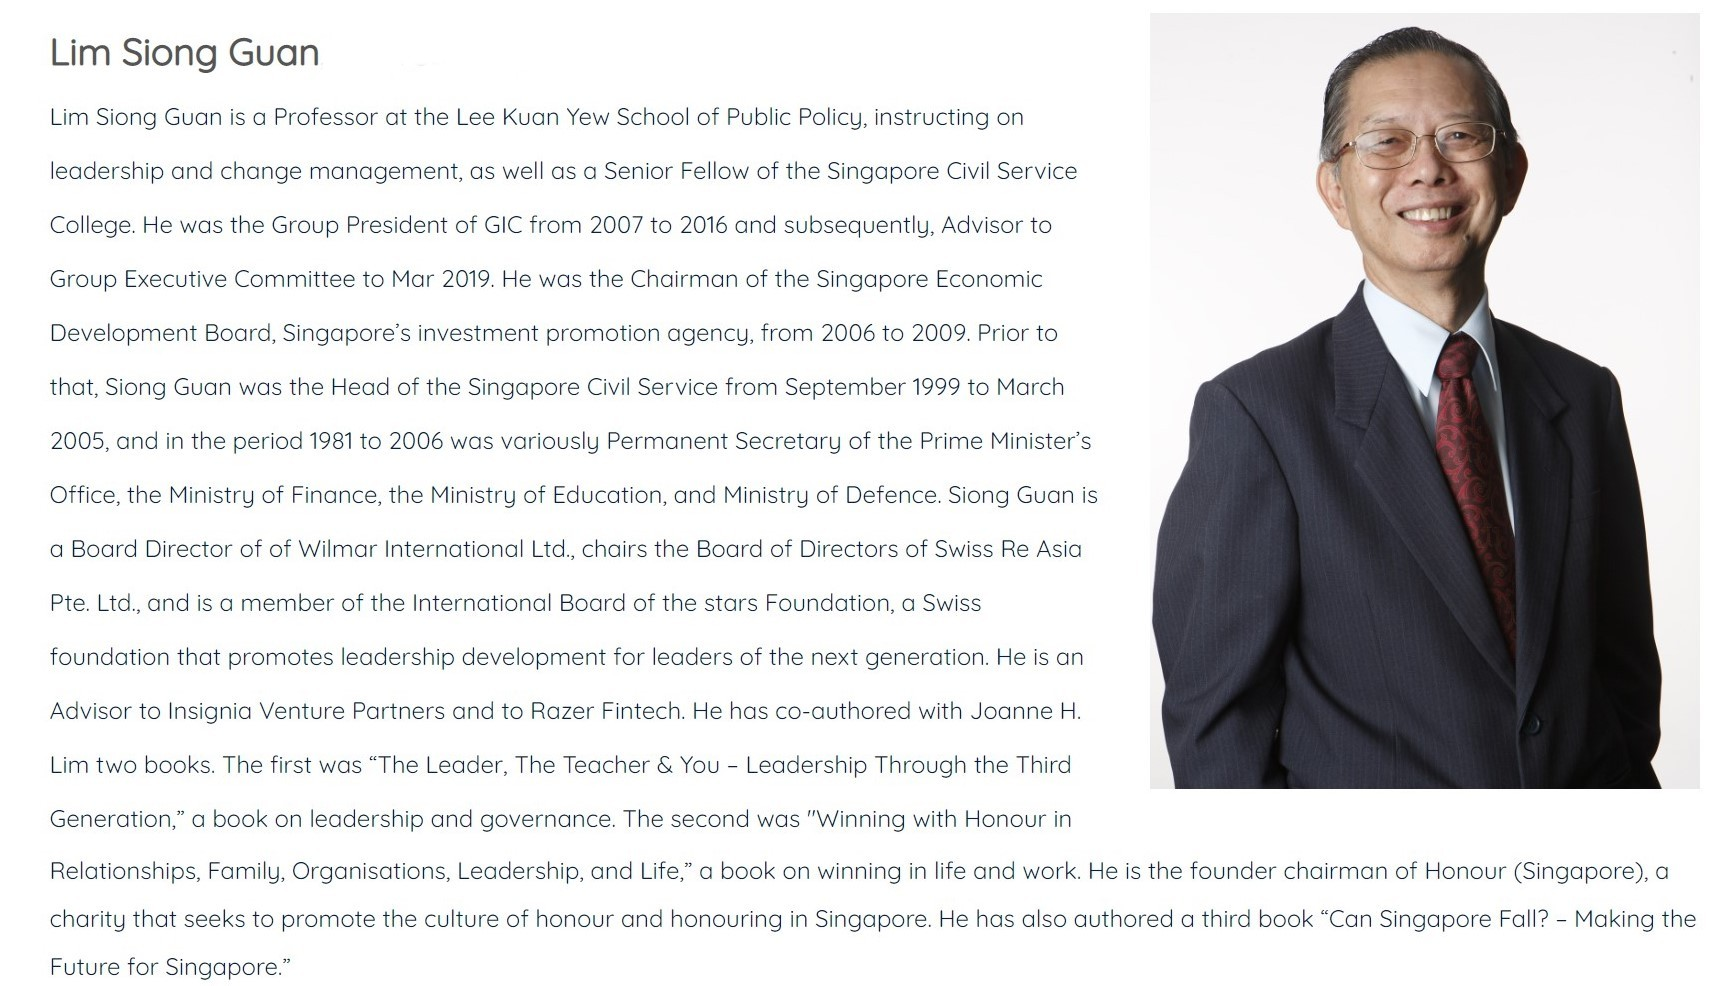
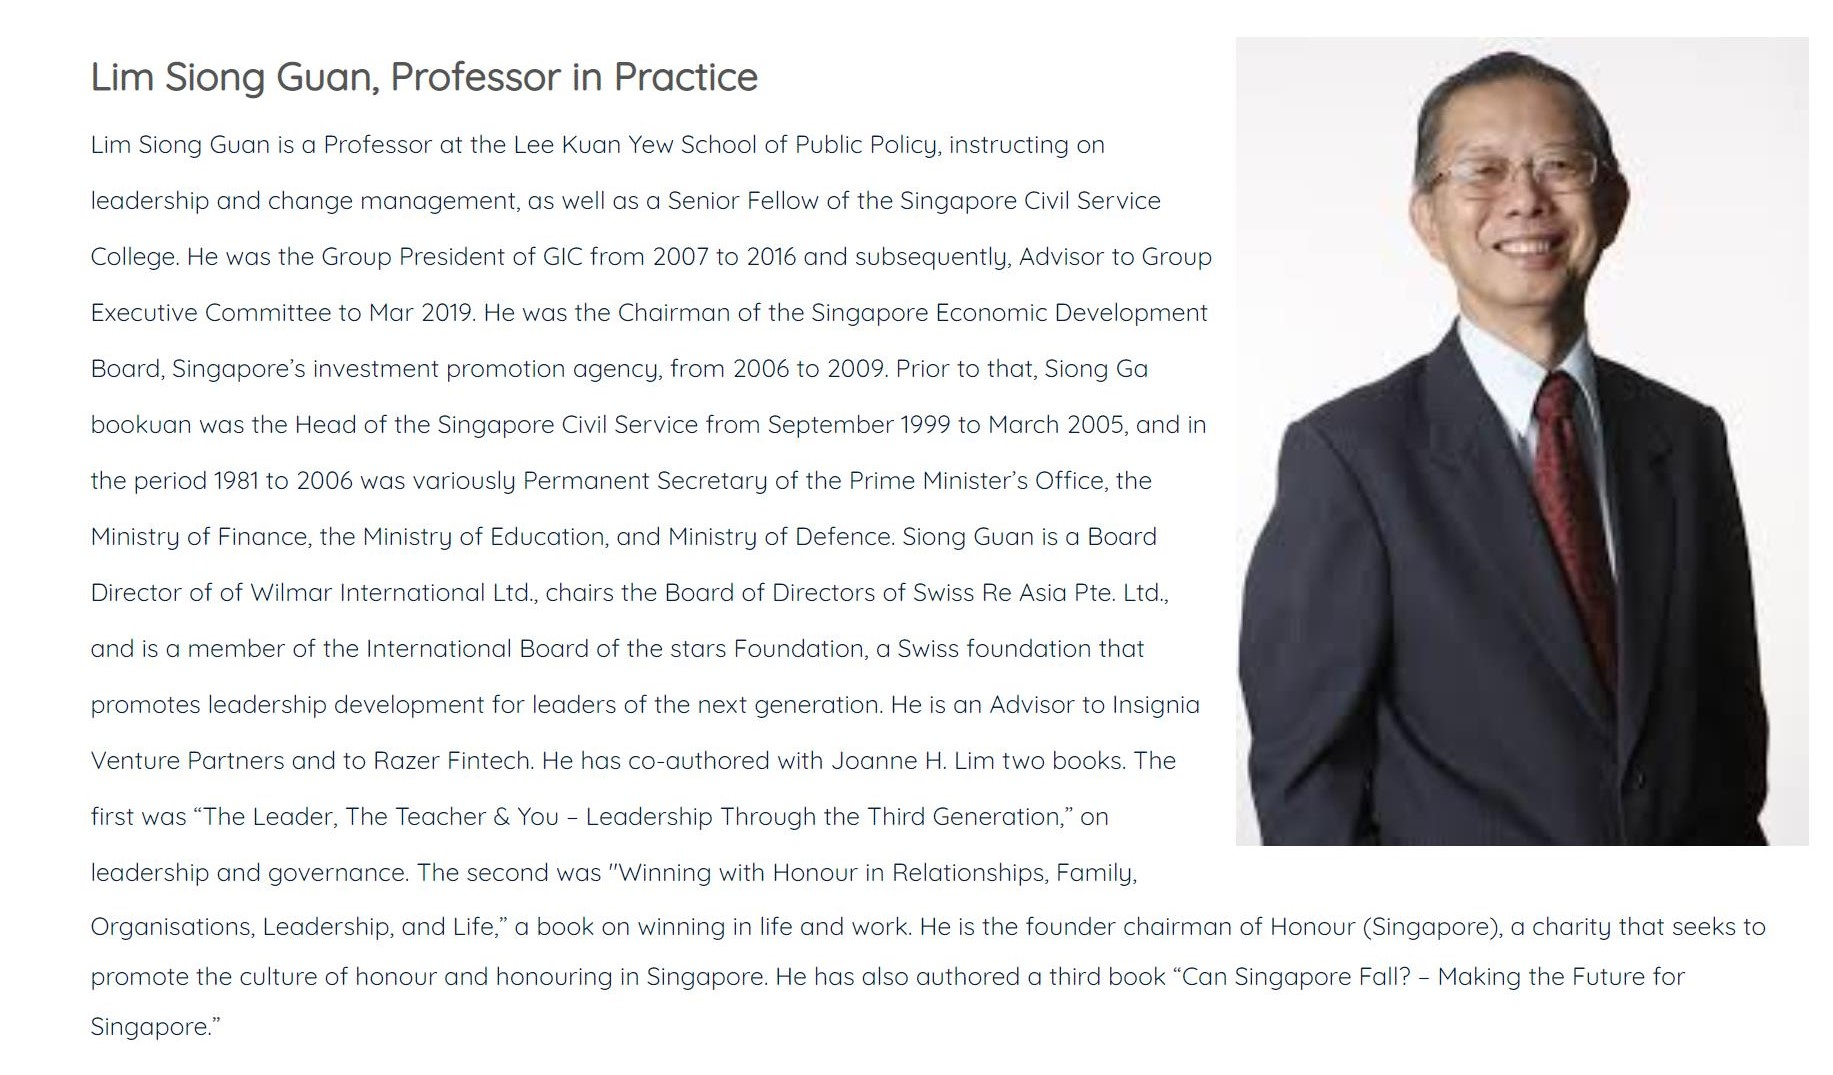
final final final edits

diff --git a/keynote-speakers.html b/keynote-speakers.html
@@ -17,8 +17,9 @@
 	<meta name="theme-color" content="#ffffff">
 	<meta property="og:image" content="/icons/512x512.png">
 	<meta name="viewport" content="width=device-width, initial-scale=1, user-scalable=no" />
-	<link rel="stylesheet" href="assets/css/main.css" />
+	<link rel="stylesheet" href="assets/css/main.css">
 	<link rel="stylesheet" href="https://www.w3schools.com/w3css/4/w3.css">
+
 </head>
 
 <body class="is-preload">
@@ -33,7 +34,7 @@
 				</li>
 			</ul>
 		</nav>
-	</header>
+	</header> 
 
 	<!-- Menu -->
 	<nav id="menu">
@@ -77,57 +78,18 @@
 			<header class="major">
 				<h1>Keynote Speakers</h1>
 			</header>
-<!--			<img src="images/bradley-busetto.jpg" style="width:25em; float: right;" alt="">
-			<p style="text-indent: 0; margin-right: 22em;"> 
-				<b>Our Guest of Honour, Mr Bradley Busetto, UNDP Global Centre  </b> <br>
-				Bradley leads the newly-established UNDP Global Centre for Technology, 
-				Innovation and Sustainable Development in Singapore. 
-				Bradley is regarded as a pioneer in creating and scaling innovative financing and business models for sustainable development. Bradley set up the UN’s first social venture incubator and impact investment fund, as well the world’s first national SDG Innovation Lab, during his tenure as UN RC/UNDP RR in Armenia (2013 - 2018). 
-				This work was recognized by the Future of Innovation Summit (co-hosted by Stanford University/Rockefeller Foundation). On the behalf of the international community in Armenia, Bradley also led a sensitive electoral assistance program that helped pave the way for the first free, and fair elections in the country’s history. He was awarded the Medal of Honour from the Minister of Foreign Affairs of Armenia. 
-				Directly prior to his appointment in Singapore, he helped lead the design of UNDP’s pioneering flagship innovation lab network, and also helped craft the SDG Fund for the United Nations. Previously with
-			</p>
-			<p style="margin-top:-35px">
-				the UN, Bradley served in humanitarian missions in Indonesia, Iraq, Bosnia-Herzegovina and Kosovo. 
-				In addition to his United Nations service, Bradley led the expansion of international operations for the Wellcome Trust, the leading global health foundation. He also worked in leadership roles in banking and management consulting and co-founded a start-up. The California native holds a BA and a master’s degree in philosophy from Stanford University, where he graduated with honours. 
-				
-			</p>
-			<img src="images/Mario 2.jpg" style="width: 25em; float: left;" alt="" >
-			<p style="text-indent: 0; margin-left: 22em;"> 
-				<b>Dr Mario Piacentini, OECD </b> <br>Dr Piacentini is the Senior Analyst leading the work on the PISA assessments of transversal, 21st-century skills. He is the lead author of the frameworks for the PISA 2018 assessment of Global Competence and for the PISA 2021 assessment of Creative Thinking. He also authored several PISA analytical reports, including the first report on the well-being of students. Dr Piacentini joined the OECD in 2009 as a Young Professional. Before moving to the PISA team in April 2015, he worked for the Public Governance Directorate and the Statistics Directorate of the OECD, the University of Geneva and the World Bank. Dr Piacentini has contributed to several large OECD and inter-agency projects on gender and well-being, and led the definition and development of international indicators on metropolitan areas, inequality, entrepreneurship and trade. He holds a PhD in economics from the University of Geneva.
-			</p>
-			<br>
-			<img src="images/yeo-kiat-seng.jpg" style="width:25em; float: right;" alt="">
-			<p style="text-indent: 0; margin-right: 22em;"> 
-				<b>Prof Yeo Kiat Seng, SUTD </b> <br>
-				Professor YEO Kiat Seng (M’00–SM’09–F’16) received the B.Eng. (EE) in 1993, and Ph.D. (EE) in 1996 both from Nanyang Technological University (NTU). Currently, he is Associate Provost for Research and International Relations at Singapore University of Technology and Design (SUTD). Professor Yeo is a widely known authority in low-power RF/mm-wave IC design and a recognized expert in CMOS technology. He was a Member of Board of Advisors of the Singapore Semiconductor Industry Association. Before his appointment at SUTD, he was Associate Chair (Research), Head of Division of Circuits and Systems and Founding Director of VIRTUS of the School of Electrical and Electronic Engineering at NTU. He has published 9 books, 7 book chapters, over 600 international top-tier refereed journal and conference papers and holds 38 patents. Professor Yeo holds/held key positions in many international conferences as Advisor, General Chair, Co-General Chair and Technical Chair. He was awarded the Public Administration Medal (Bronze) on National Day 2009 by the President of the Republic of Singapore and the Nanyang Alumni Achievement Award in 2009 for his outstanding contributions to the university and society. Professor Yeo is an IEEE Fellow for his contributions to low-power integrated circuit design.
-			</p>
-			<img src="images/sanitarn.jpeg" style="width: 25em; float: left;" alt="" >
-			<p style="text-indent: 0; margin-left: 22em;"> 
-				<b>Dr Santitarn Sathirathai, SEA Group </b> <br>
-				Dr. Santitarn Sathirathai is Group Chief Economist and a member of senior management at Sea, the leading internet company in Southeast Asia and Taiwan. Sea’s businesses include Shopee, the region’s largest and most popular e-commerce platform, Garena, a global leader in games publishing and development, and SeaMoney, one of the pioneers of Southeast Asia’s digital financial services sector. 
- 
-				At Sea, he heads the company’s Research and Public Policy Unit and leads Sea’s engagement with policymakers and thought leaders around the region, with a particular focus on promoting digital skills and literacy for young people, SMEs, and other industry stakeholders. 
-				
-				Santitarn was the first representative from Southeast Asia invited to join the World Economic Forum’s Community of Chief Economists tasked to reimagine the Global Economic system post Covid-19.
-				 
-				A passionate advocate for the power of technology to drive transformation and inclusion, he published his first book, Futuration, in Thailand in 2019. The book addresses Santitarn’s views on how Thailand can prepare for the challenges and opportunities of the future economy, and has become an instant best-seller and one of the 
-			</p>
-			<p style="margin-top: -35px"> country’s most talked-about books of the year. 
-				 
-				Prior to joining Sea, Santitarn was the Head of Emerging Asia Economics Research at Credit Suisse where he advised public and private investors, covering 10 economies. He was the only economist in Asia to have won the prestigious best economic forecaster award by Consensus Economics for three consecutive years. He has also worked at Thailand's Ministry of Finance and at the Office of the Deputy Prime Minister, as well as the Government of Singapore Investment Corporation. 
-				 
-				In addition to his work with Sea, he is also a visiting lecturer at Chulalongkorn University and is one of the founding members of the Thai Young Philanthropist Network (TYPN), which mobilises over 1800 passionate youths to work on inclusive and sustainable development projects in Thailand. 
-				 
-				Santitarn holds a doctorate degree in Public Policy and a master’s degree in Public Administration in International Development from Harvard University, as well as a bachelor’s degree in Economics and a master’s degree from the London School of Economics.</p>
-			<img src="images/lim-siong-guan.jpg" style="width:25em; float: right;" alt="">
-			<p style="text-indent: 0; margin-right: 22em;"> 
-				<b>Lim Siong Guan, Professor in Practice, Lee Kuan Yew School of Public Policy  </b> <br>
-				Lim Siong Guan is a Professor at the Lee Kuan Yew School of Public Policy, instructing on leadership and change management, as well as a Senior Fellow of the Singapore Civil Service College.   He was the Group President of GIC from 2007 to 2016 and subsequently, Advisor to Group Executive Committee to Mar 2019.  He was the Chairman of the Singapore Economic Development Board, Singapore’s investment promotion agency, from 2006 to 2009.  Prior to that, Siong Guan was the Head of the Singapore Civil Service from September 1999 to March 2005, and in the period 1981 to 2006 was variously Permanent Secretary of the Prime Minister’s Office, the Ministry of Finance, the Ministry of Education, and Ministry of Defence. 
-Siong Guan is a Board Director of of Wilmar International Ltd., chairs the Board of Directors of Swiss Re Asia 
-			</p>
-			<p style="margin-top: -35px">Pte. Ltd., and is a member of the International Board of the stars Foundation, a Swiss foundation that promotes leadership development for leaders of the next generation.  He is an Advisor to Insignia Venture Partners and to Razer Fintech.
-				He has co-authored with Joanne H. Lim two books.  The first was “The Leader, The Teacher & You – Leadership Through the Third Generation,” a book on leadership and governance.  The second was "Winning with Honour in Relationships, Family, Organisations, Leadership, and Life,” a book on winning in life and work.  He is the founder chairman of Honour (Singapore), a charity that seeks to promote the culture of honour and honouring in Singapore.  He has also authored a third book “Can Singapore Fall? – Making the Future for Singapore.”</p>
-			<img src="images/Bilahari-photo.jpg" style="width:25em; float: left;" alt="">
+			<!--
+			<img src="images/limsiongguan1.jpg" style="width:25em; float: right;" alt="">
+			<p style="text-indent: 0; margin-right: 21em;"> 
+				<b style="font-size: 25px">Lim Siong Guan, Professor in Practice  </b> <br>
+				<span style="font-size: 16px">
+				Lim Siong Guan is a Professor at the Lee Kuan Yew School of Public Policy, instructing on leadership and change management, as well as a Senior Fellow of the Singapore Civil Service College.   He was the Group President of GIC from 2007 to 2016 and subsequently, Advisor to Group Executive Committee to Mar 2019.  He was the Chairman of the Singapore Economic Development Board, Singapore’s investment promotion agency, from 2006 to 2009.  Prior to that, Siong Ga bookuan was the Head of the Singapore Civil Service from September 1999 to March 2005, and in the period 1981 to 2006 was variously Permanent Secretary of the Prime Minister’s Office, the Ministry of Finance, the Ministry of Education, and Ministry of Defence. 
+Siong Guan is a Board Director of of Wilmar International Ltd., chairs the Board of Directors of Swiss Re Asia Pte. Ltd., and is a member of the International Board of the stars Foundation, a Swiss foundation that promotes leadership development for leaders of the next generation.  He is an Advisor to Insignia Venture Partners and to Razer Fintech.
+He has co-authored with Joanne H. Lim two books.  The first was “The Leader, The Teacher & You – Leadership Through the Third Generation,”  on leadership and governance.  The second was "Winning with Honour in Relationships, Family, 
+			</span></p>
+			<p style="margin-top: -35px; font-size: 16px">Organisations, Leadership, and Life,” a book on winning in life and work.  He is the founder chairman of Honour (Singapore), a charity that seeks to promote the culture of honour and honouring in Singapore.  He has also authored a third book “Can Singapore Fall? – Making the Future for Singapore.”</p>
+			
+				<img src="images/Bilahari-photo.jpg" style="width:25em; float: left;" alt="">
 				<p style="text-indent: 0; margin-left: 22em;"> 
 					<b>Dr Bilahari Kausikan, NUS  </b> <br>
 					Bilahari Kausikan is currently Chairman of the Middle East Institute, an autonomous institute of the National University of Singapore. He has spent his entire career in the Ministry of Foreign Affairs. During his 37 years in the Ministry, he served in a variety of appointments at home and abroad, including as Ambassador to the Russian Federation, Permanent Representative to the UN in New York, and as the Permanent Secretary to the Ministry. Raffles Institution, the University of Singapore and Columbia University in New York all attempted to educate him.
@@ -150,6 +112,7 @@ Siong Guan is a Board Director of of Wilmar International Ltd., chairs the Board
 	</section>
 	<button style="margin-top: 15em" class="w3-button w3-black w3-display-left" onclick="plusDivs(-1)">&#10094;</button>
 	<button style="margin-top: 15em" class="w3-button w3-black w3-display-right" onclick="plusDivs(1)">&#10095;</button>
+	
 	<!-- Footer -->
 	<footer id="footer">
 		<ul class="contact-icons">
